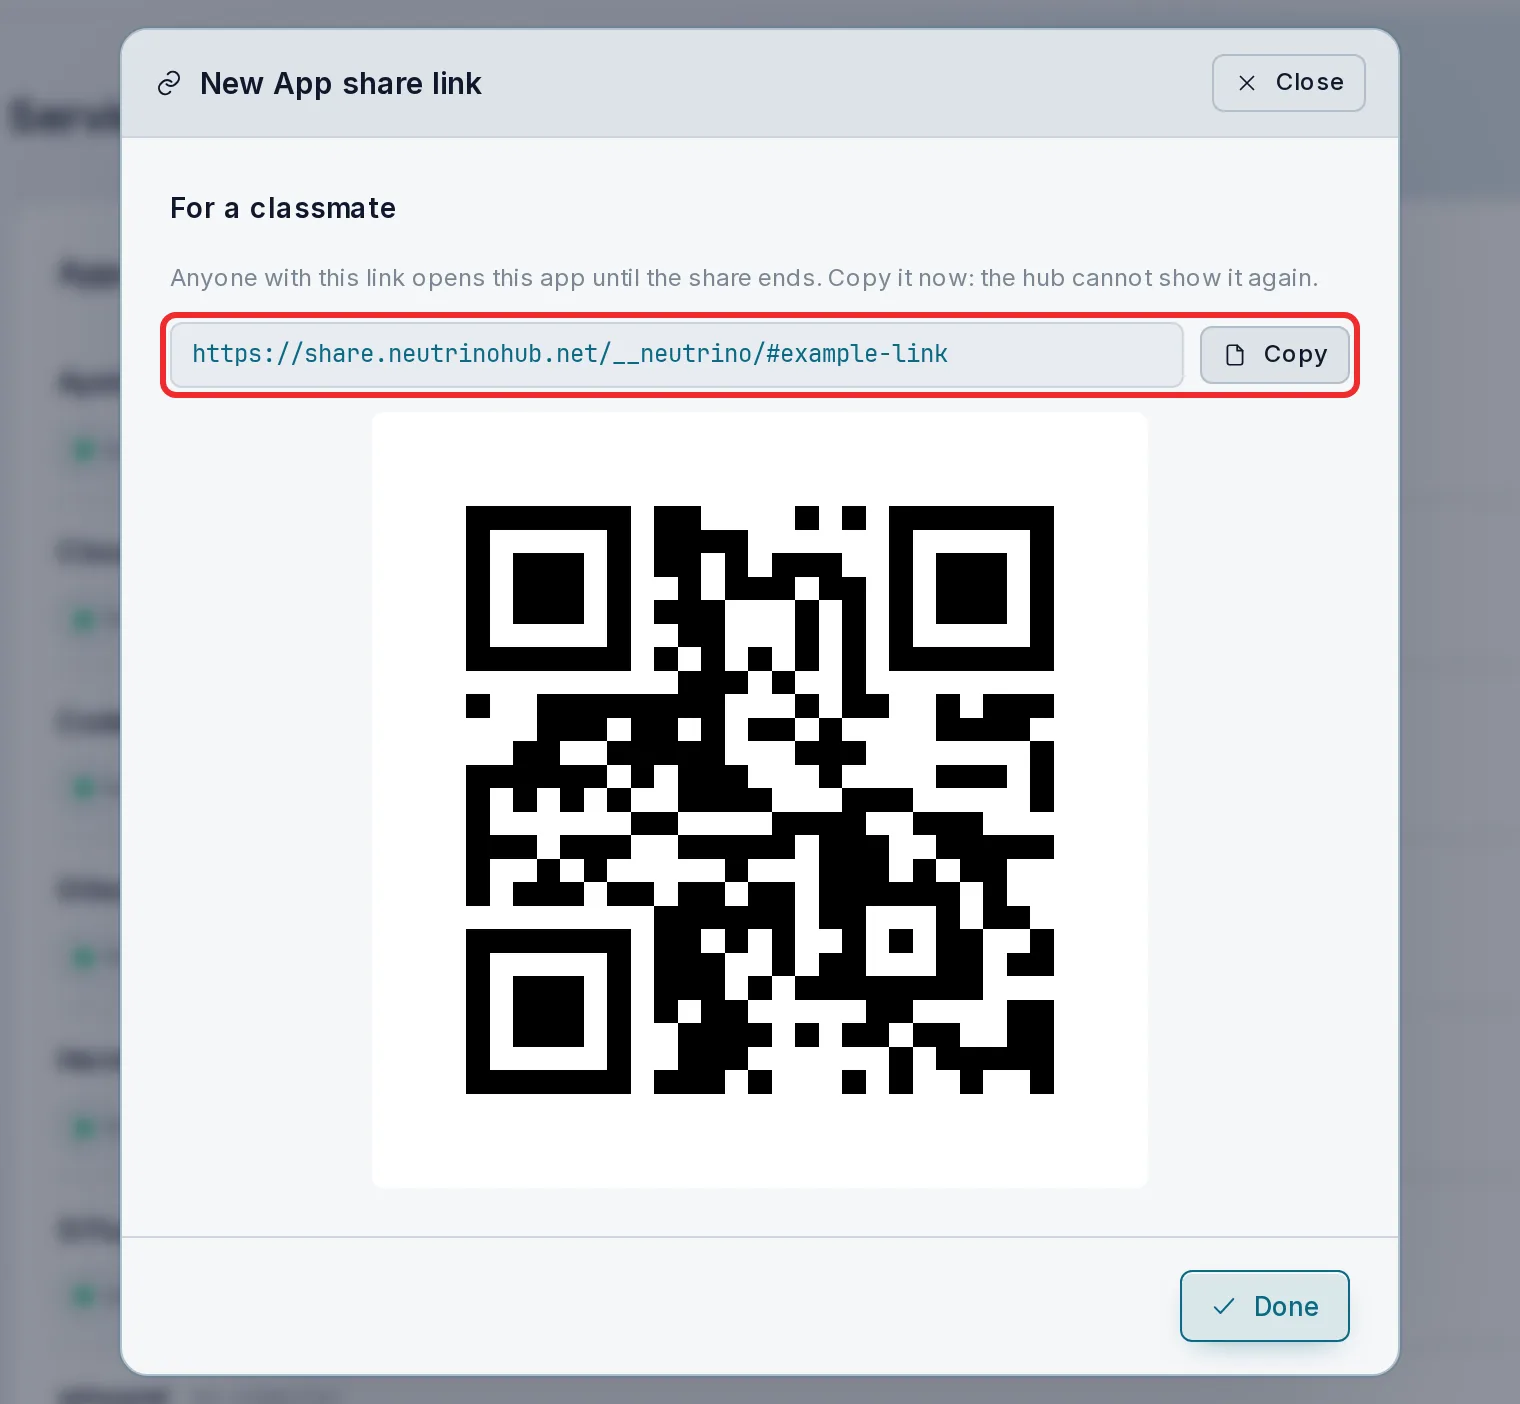
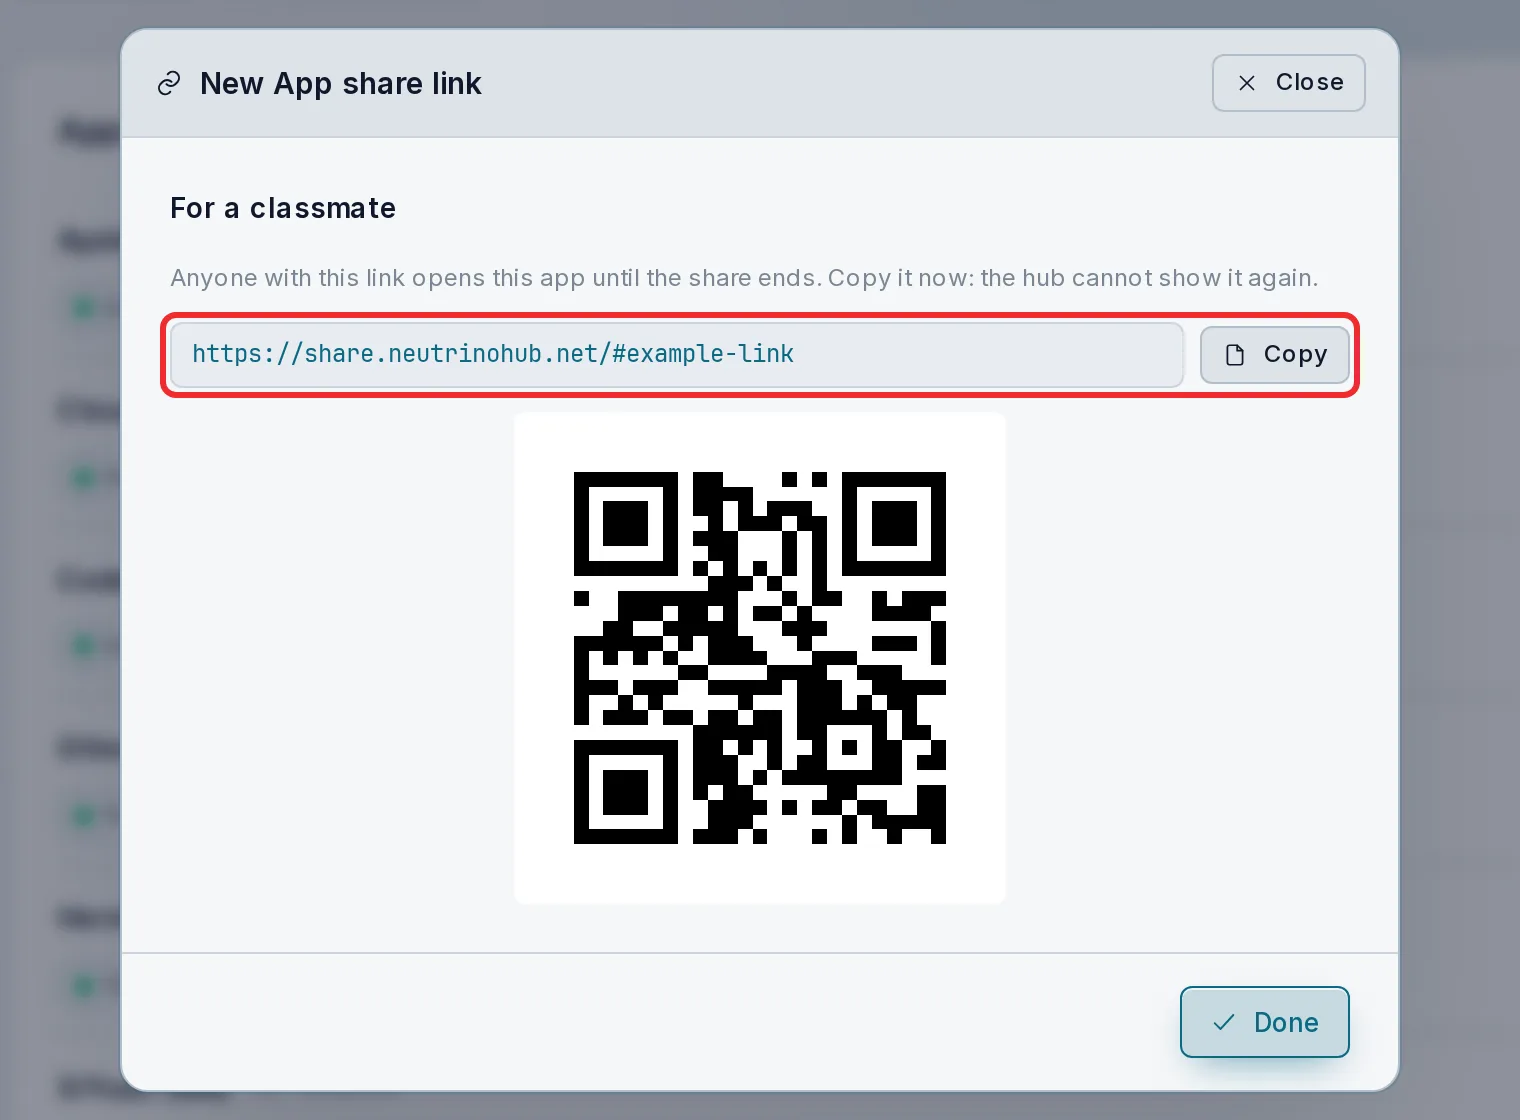
Docs: Show App share links without /__neutrino/, and name the mirror's root as the share page.

diff --git a/docs/en/share/web_share.md b/docs/en/share/web_share.md
@@ -91,7 +91,7 @@ If you prefer not to depend on this website, you can host the page yourself:
    python3 packaging/build/build_share_page.py --output-dir dist/share_page/
    ```
 
-1. Deploy this folder to any static HTTPS website. Cloudflare Pages and EdgeOne Pages work as they are, because the folder already includes their settings files. On any other website, set the following rules yourself:
+1. Deploy this folder to any static HTTPS website. The site's root is the share page, and links take the form `https://<your site>/#…`. Cloudflare Pages and EdgeOne Pages work as they are, because the folder already includes their settings files. On any other website, set the following rules yourself:
 
    - The file `/__neutrino/sw.js` must have the response header `Service-Worker-Allowed: /`.
    - Every address with no matching file returns `index.html`.
